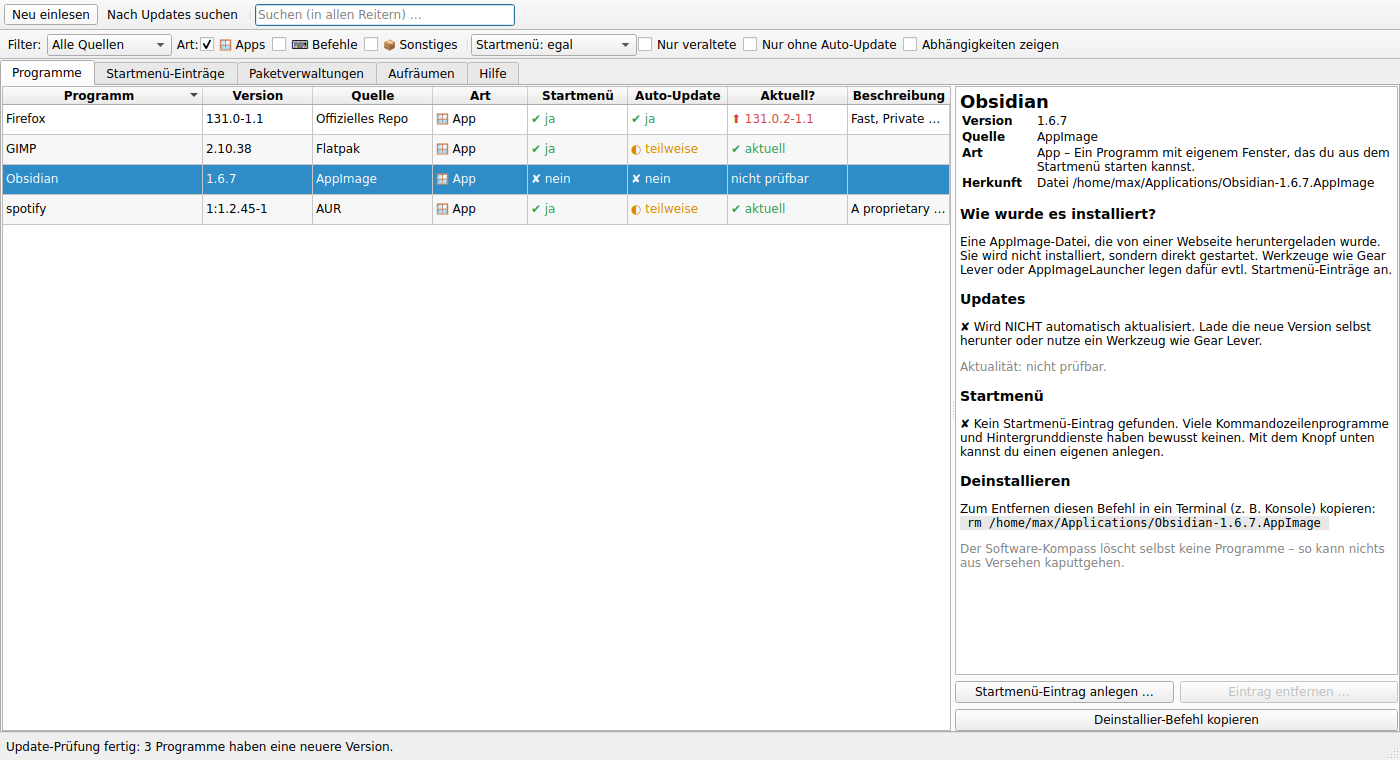
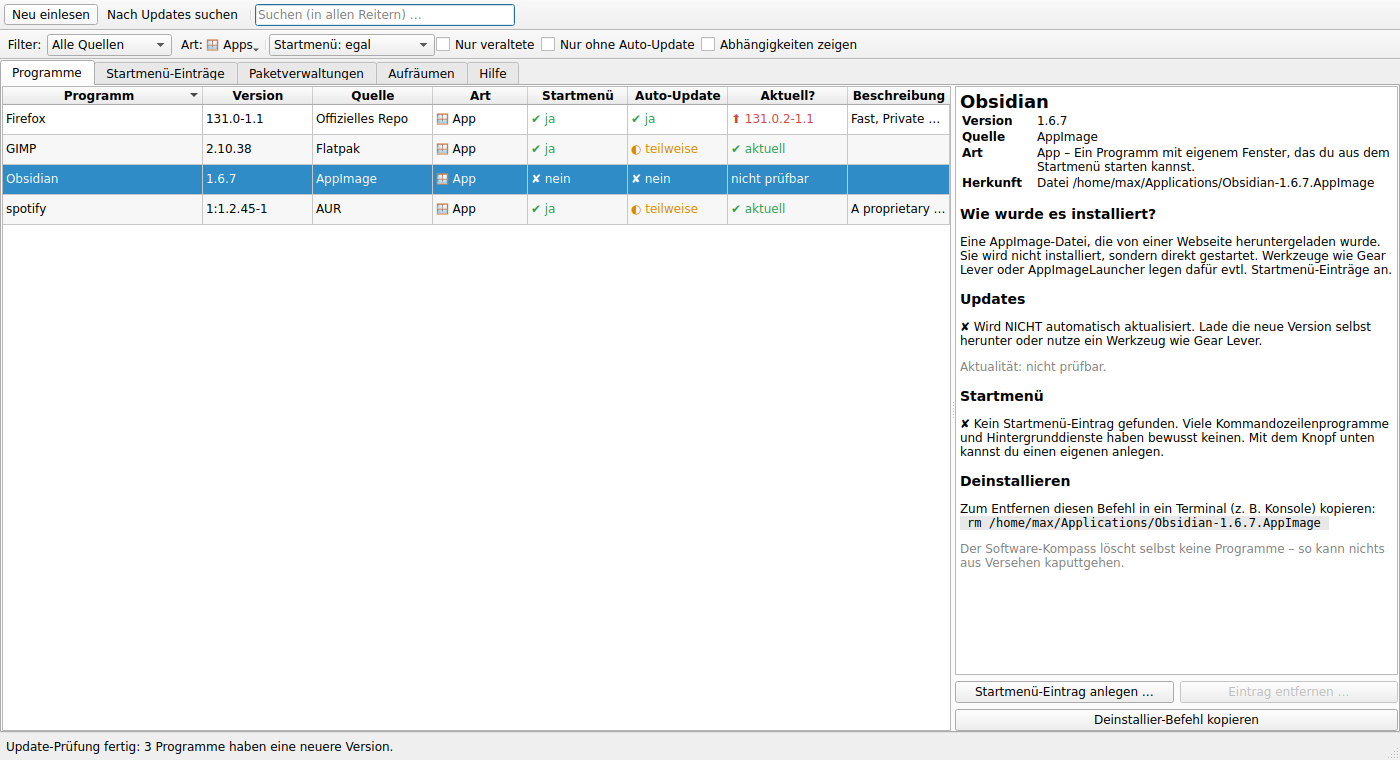
Filter „Art“ als Ausklappliste mit Häkchen (0.4.2)
Die drei Häkchen nahmen in der Filterzeile viel Platz ein. Jetzt stecken
sie in einer Ausklappliste, deren Beschriftung die Auswahl zusammenfasst
(„Art: 🪟 Apps“, „Art: alle“ …). Das Menü bleibt beim Anhaken offen.

Claude-Session: https://claude.ai/code/session_01Bj8dsgos9An5zq6RmXS7dU

Changed region(s): [[0.1229, 0.0303, 0.7371, 0.0908]]

diff --git a/cachy_kompass/gui/main_window.py b/cachy_kompass/gui/main_window.py
@@ -18,6 +18,7 @@ from PySide6.QtWidgets import (
     QLabel,
     QLineEdit,
     QMainWindow,
+    QMenu,
     QMessageBox,
     QProgressBar,
     QPushButton,
@@ -28,8 +29,10 @@ from PySide6.QtWidgets import (
     QTabWidget,
     QTextBrowser,
     QToolBar,
+    QToolButton,
     QVBoxLayout,
     QWidget,
+    QWidgetAction,
 )
 
 from cachy_kompass import APP_ID, APP_NAME, __version__, desktop, scanner, terminal
@@ -125,16 +128,27 @@ class MainWindow(QMainWindow):
         )
         bar.addWidget(self.source_filter)
 
-        # Filter „Art“ als Häkchen – frei kombinierbar, gilt für Programme und Startmenü-Einträge
-        bar.addWidget(QLabel(" Art:"))
+        # Filter „Art“: Ausklappliste mit Häkchen – frei kombinierbar, gilt für Programme und Startmenü-Einträge
+        self.kind_button = QToolButton()
+        self.kind_button.setPopupMode(QToolButton.ToolButtonPopupMode.InstantPopup)
+        self.kind_button.setToolButtonStyle(Qt.ToolButtonStyle.ToolButtonTextOnly)
+        self.kind_button.setToolTip("Welche Arten von Programmen angezeigt werden – mehrere gleichzeitig möglich")
+        kind_menu = QMenu(self.kind_button)
         self.kind_boxes: dict[Kind, QCheckBox] = {}
         for kind, label in KIND_CHECKBOX_TEXT.items():
+            # Häkchen als Widget im Menü: so bleibt das Menü beim Anklicken offen
             box = QCheckBox(label)
             box.setChecked(kind in DEFAULT_KINDS)
             box.setToolTip(KIND_INFO[kind])
+            box.setContentsMargins(8, 2, 8, 2)
             box.toggled.connect(self._kinds_changed)
+            action = QWidgetAction(kind_menu)
+            action.setDefaultWidget(box)
+            kind_menu.addAction(action)
             self.kind_boxes[kind] = box
-            bar.addWidget(box)
+        self.kind_button.setMenu(kind_menu)
+        self._update_kind_button()
+        bar.addWidget(self.kind_button)
         bar.addSeparator()
 
         self.menu_filter = QComboBox()
@@ -389,7 +403,18 @@ class MainWindow(QMainWindow):
     def selected_kinds(self) -> frozenset[Kind]:
         return frozenset(kind for kind, box in self.kind_boxes.items() if box.isChecked())
 
+    def _update_kind_button(self) -> None:
+        kinds = self.selected_kinds()
+        if not kinds:
+            text = "Art: keine"
+        elif len(kinds) == len(self.kind_boxes):
+            text = "Art: alle"
+        else:
+            text = "Art: " + ", ".join(KIND_CHECKBOX_TEXT[k] for k in self.kind_boxes if k in kinds)
+        self.kind_button.setText(text)
+
     def _kinds_changed(self, _checked: bool = False) -> None:
+        self._update_kind_button()
         self.proxy.update_filter(kinds=self.selected_kinds())
         self._apply_search()
 

diff --git a/cachy_kompass/__init__.py b/cachy_kompass/__init__.py
@@ -3,6 +3,6 @@
 CachyOS-System installiert sind, woher sie stammen und ob sie im Startmenü
 auftauchen."""
 
-__version__ = "0.4.1"
+__version__ = "0.4.2"
 APP_NAME = "Cachy Software-Kompass"
 APP_ID = "cachy-kompass"

diff --git a/README.md b/README.md
@@ -141,7 +141,7 @@ Ein Klick auf eine Spaltenüberschrift sortiert die Liste, zum Beispiel nach
 | **Nach Updates suchen** | fragt im Internet nach neueren Versionen; dabei wird **nichts** installiert |
 | **Suchen …** | filtert **alle Reiter** gleichzeitig: Namen, Beschreibungen, Namen der Startmenü-Einträge (z. B. „Claude Code“ für das Programm `claude`), Befehle und Pfade |
 | **Alle Quellen** | zeigt nur Programme aus einer bestimmten Quelle, z. B. nur Flatpaks |
-| **Art: ☑ Apps ☐ Befehle ☐ Sonstiges** | Häkchen, frei kombinierbar. Standard ist **nur Apps**, also Programme mit Fenster. Häkchen bei „Befehle“ zeigt zusätzlich Kommandozeilenprogramme, bei „Sonstiges“ auch Schriftarten, Treiber usw. Der Filter gilt auch im Reiter „Startmenü-Einträge“. |
+| **Art: …** | Ausklappliste mit Häkchen (☑ Apps ☐ Befehle ☐ Sonstiges), frei kombinierbar. Auf der Schaltfläche steht, was gerade ausgewählt ist. Standard ist **nur Apps**, also Programme mit Fenster. Häkchen bei „Befehle“ zeigt zusätzlich Kommandozeilenprogramme, bei „Sonstiges“ auch Schriftarten, Treiber usw. Der Filter gilt auch im Reiter „Startmenü-Einträge“. |
 | **Startmenü: …** | zeigt z. B. nur Programme **ohne** Startmenü-Eintrag |
 | **Nur veraltete** | zeigt nur Programme mit verfügbarem Update |
 | **Nur ohne Auto-Update** | zeigt nur Programme, um deren Updates du dich selbst kümmern musst |

diff --git a/CHANGELOG.md b/CHANGELOG.md
@@ -4,6 +4,12 @@ Hier steht, was sich von Version zu Version geändert hat. Die installierte
 Version siehst du im Fenstertitel, im Reiter „Hilfe“ oder mit
 `cachy-kompass --version`.
 
+## 0.4.2
+
+- Die Häkchen für den Filter „Art“ stecken jetzt in einer **Ausklappliste**
+  („Art: 🪟 Apps“), damit die Filterzeile übersichtlicher ist. Das Menü bleibt
+  beim Anhaken offen, mehrere Arten lassen sich weiterhin kombinieren.
+
 ## 0.4.1
 
 - **Filter „Art“ als Häkchen** (☑ Apps ☐ Befehle ☐ Sonstiges), frei
